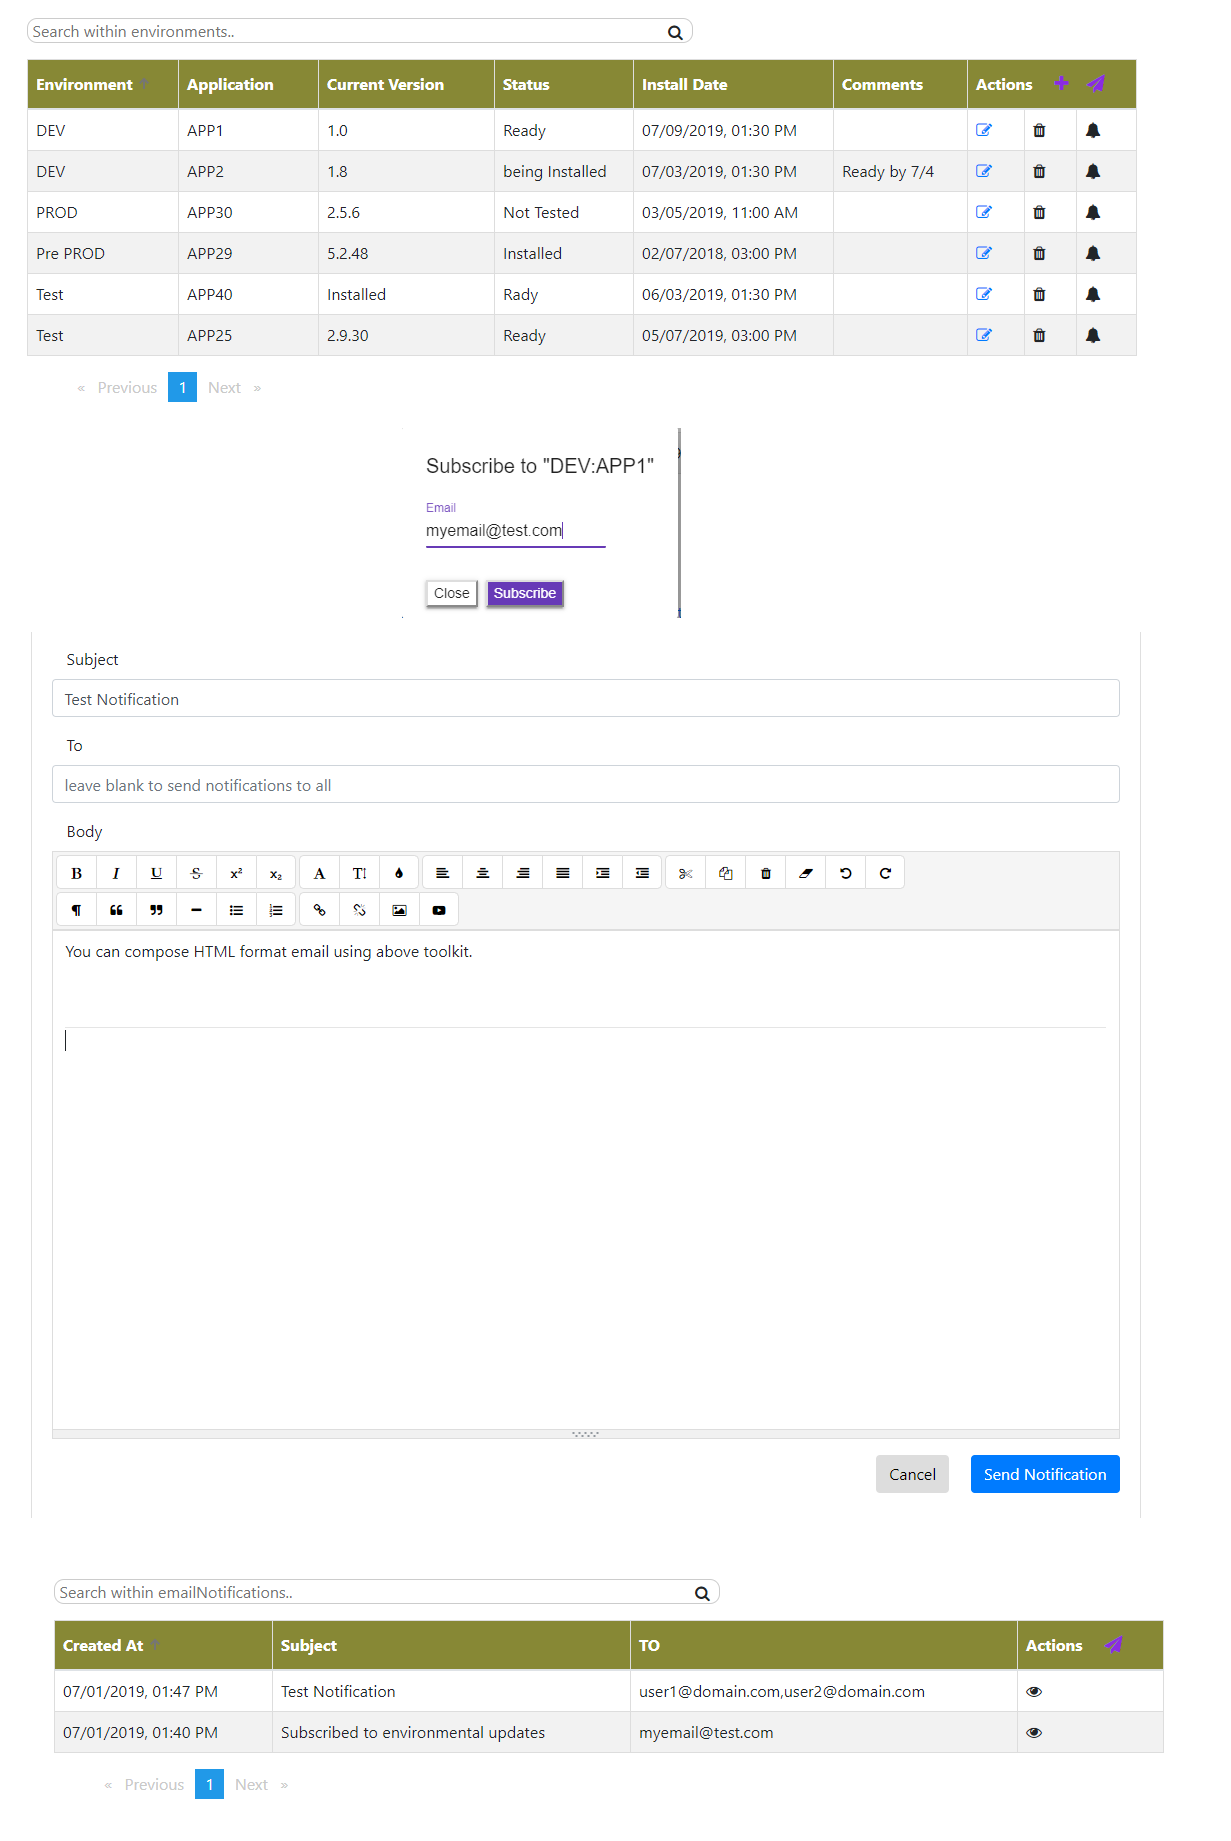
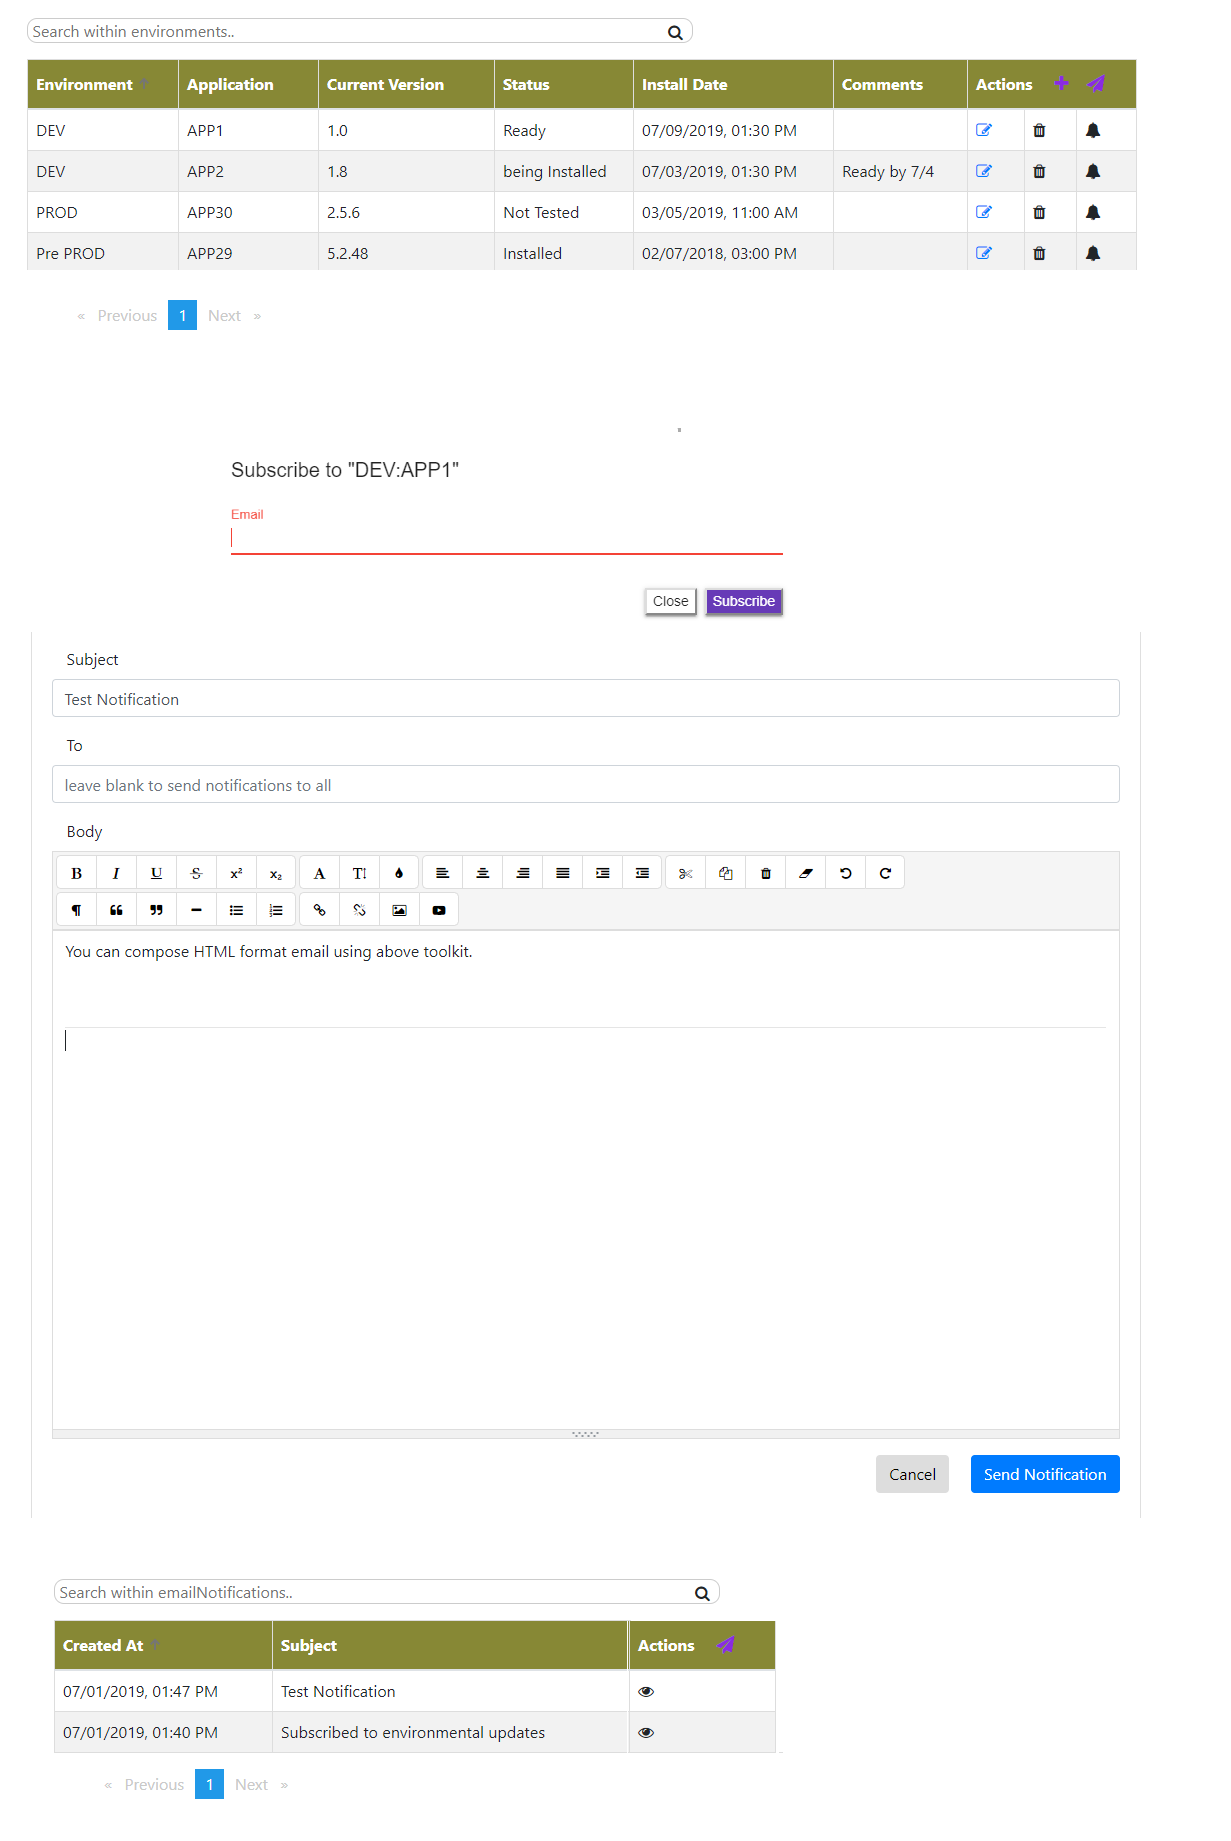
updated CSS, added polyfills for IE11

diff --git a/client/src/app/get-notifications/get-notifications.component.html b/client/src/app/get-notifications/get-notifications.component.html
@@ -7,7 +7,6 @@
   <tr>
     <th mat-sort-header="createdAt">Created At</th>
     <th mat-sort-header="subject">Subject</th>
-    <th mat-sort-header="to">TO</th>
     <th colspan="2">Actions
       <a routerLink="../sendnotifications" class="fa fa-paper-plane"
         style="font-size:18px;color:blueviolet;text-indent: 1em"> </a>
@@ -19,7 +18,6 @@
       *ngFor="let emailNotification of emailNotifications |  grdFilter: {createdAt: searchText, subject:searchText, to: searchText} | paginate: { itemsPerPage: 12, currentPage: p }  ">
       <td>{{ emailNotification.createdAt }}</td>
       <td>{{ emailNotification.subject }}</td>
-      <td>{{ emailNotification.to }}</td>
       <td><a (click)="viewNotification(emailNotification)" class="fa fa-eye"></a></td>
     </tr>
   </tbody>

diff --git a/client/src/app/view-notification/view-notification.component.ts b/client/src/app/view-notification/view-notification.component.ts
@@ -10,12 +10,14 @@ import EmailNotification from '../model/EmailNotification';
 })
 export class ViewNotificationComponent implements OnInit {
 
-  emailBody: String;
+  to: String;
   emailHtml: String;
+
 
 
   constructor(private dialogRef: MatDialogRef<ViewNotificationComponent>,
     @Inject(MAT_DIALOG_DATA) private emailNotification: EmailNotification, private router: Router) {
+
 
   }
 
@@ -24,7 +26,7 @@ export class ViewNotificationComponent implements OnInit {
   }
 
   ngOnInit() {
-    this.emailBody = Object["values"](this.emailNotification)[0].body;
+    this.to = Object["values"](this.emailNotification)[0].to;
     this.emailHtml = Object["values"](this.emailNotification)[0].html;
   }
 

diff --git a/client/src/app/view-notification/view-notification.component.css b/client/src/app/view-notification/view-notification.component.css
@@ -1,0 +1,15 @@
+.mat-dialog-actions {
+    justify-content: flex-end;
+}
+.zigzag {
+    height:10px;
+    width:1450px;
+    background:
+        linear-gradient(-135deg, #FF6347 5px, transparent 0) 0 5px,
+        linear-gradient(135deg, #FF6347 5px, #fff 0) 0 5px;
+    background-color: #FF6347;
+    background-position: left bottom;
+    background-repeat: repeat-x;
+    background-size: 10px 10px;
+ 
+}

diff --git a/client/src/app/view-notification/view-notification.component.html b/client/src/app/view-notification/view-notification.component.html
@@ -1,5 +1,9 @@
 <mat-dialog-content>
   <div [innerHTML]="emailHtml"></div>
+  <div class="zigzag"></div>
+  <strong>This Notification has been sent to the following:</strong>
+  <div style="text-align:justify; word-break:break-all;" [innerHTML]="to"></div>
+  <div class="zigzag"></div>
 </mat-dialog-content>
 
 <mat-dialog-actions>

diff --git a/client/src/app/subscribe-environment/subscribe-environment.component.html b/client/src/app/subscribe-environment/subscribe-environment.component.html
@@ -3,9 +3,9 @@
 
 <mat-dialog-content [formGroup]="form">
 
-    <mat-form-field>
+    <mat-form-field [style.fontSize.px]=17>
       <input matInput
-              placeholder="Email"
+              placeholder="Email" 
              formControlName="email">
     </mat-form-field>
 

diff --git a/client/src/polyfills.ts b/client/src/polyfills.ts
@@ -33,6 +33,8 @@ import 'core-js/es6/regexp';
 import 'core-js/es6/map';
 import 'core-js/es6/weak-map';
 import 'core-js/es6/set';
+import 'core-js/es7/object';
+import 'core-js/es7/array';
 
 /**
  * If the application will be indexed by Google Search, the following is required.

diff --git a/client/src/app/get-environments/get-environments.component.ts b/client/src/app/get-environments/get-environments.component.ts
@@ -72,6 +72,8 @@ export class GetEnvironmentsComponent implements OnInit {
 
     dialogConfig.disableClose = true;
     dialogConfig.autoFocus = true;
+    dialogConfig.width = "600px";
+    dialogConfig.maxWidth = "1500px";
 
     dialogConfig.data = {
       env_id: env_id,

diff --git a/client/src/app/get-notifications/get-notifications.component.ts b/client/src/app/get-notifications/get-notifications.component.ts
@@ -60,6 +60,7 @@ export class GetNotificationsComponent implements OnInit {
 
     dialogConfig.disableClose = true;
     dialogConfig.autoFocus = true;
+    dialogConfig.maxWidth = "1500px";
 
     dialogConfig.data = {
       emailNotification: emailNotification

diff --git a/client/src/app/get-notifications/get-notifications.component.css b/client/src/app/get-notifications/get-notifications.component.css
@@ -7,6 +7,7 @@ table {
     text-align: left;
     border: 1px solid #ddd;
     padding: 8px;
+    overflow: hidden;
   }
   
 

diff --git a/client/src/app/subscribe-environment/subscribe-environment.component.css b/client/src/app/subscribe-environment/subscribe-environment.component.css
@@ -1,0 +1,6 @@
+.mat-dialog-actions {
+    justify-content: flex-end;
+}
+mat-form-field {
+    width: 100%;
+  }
